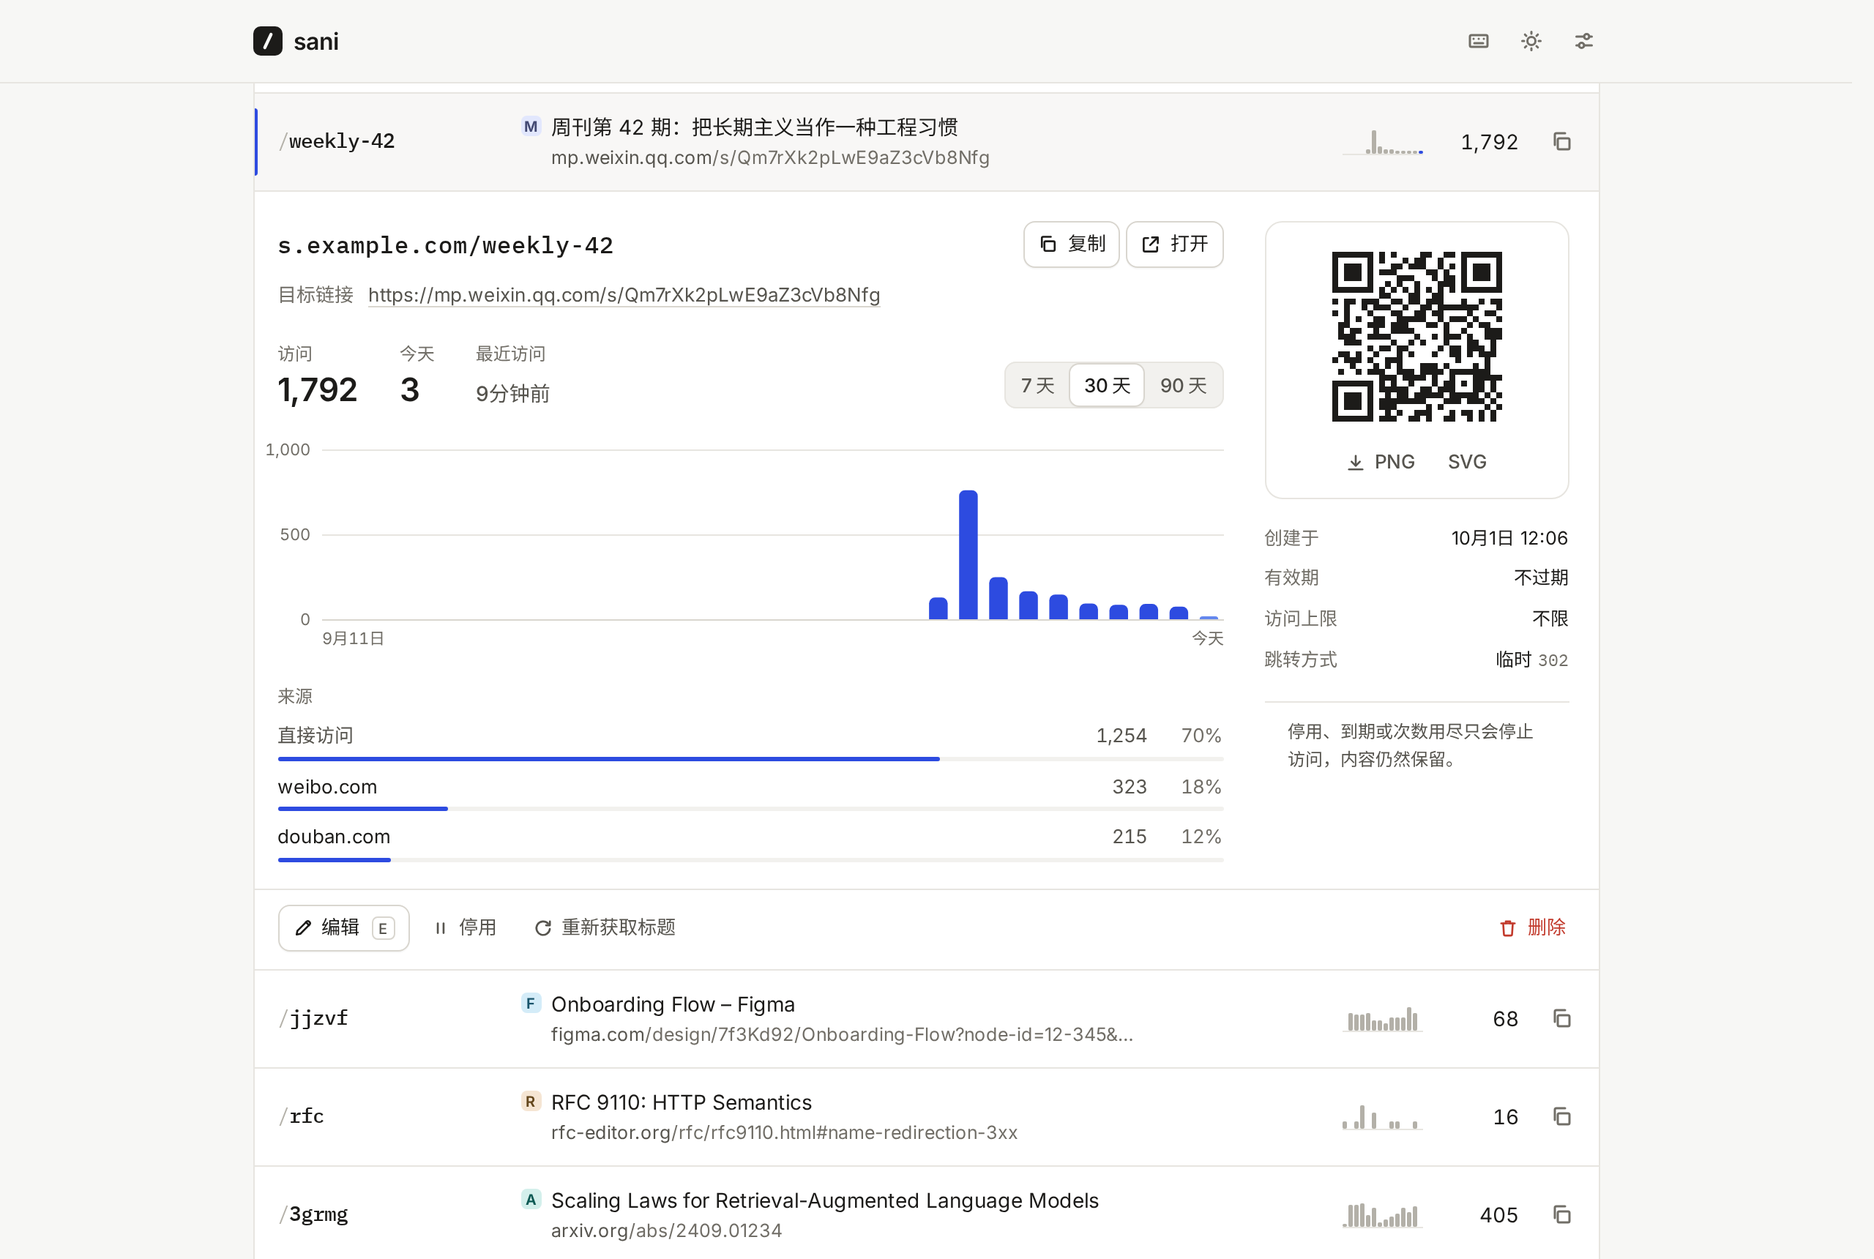
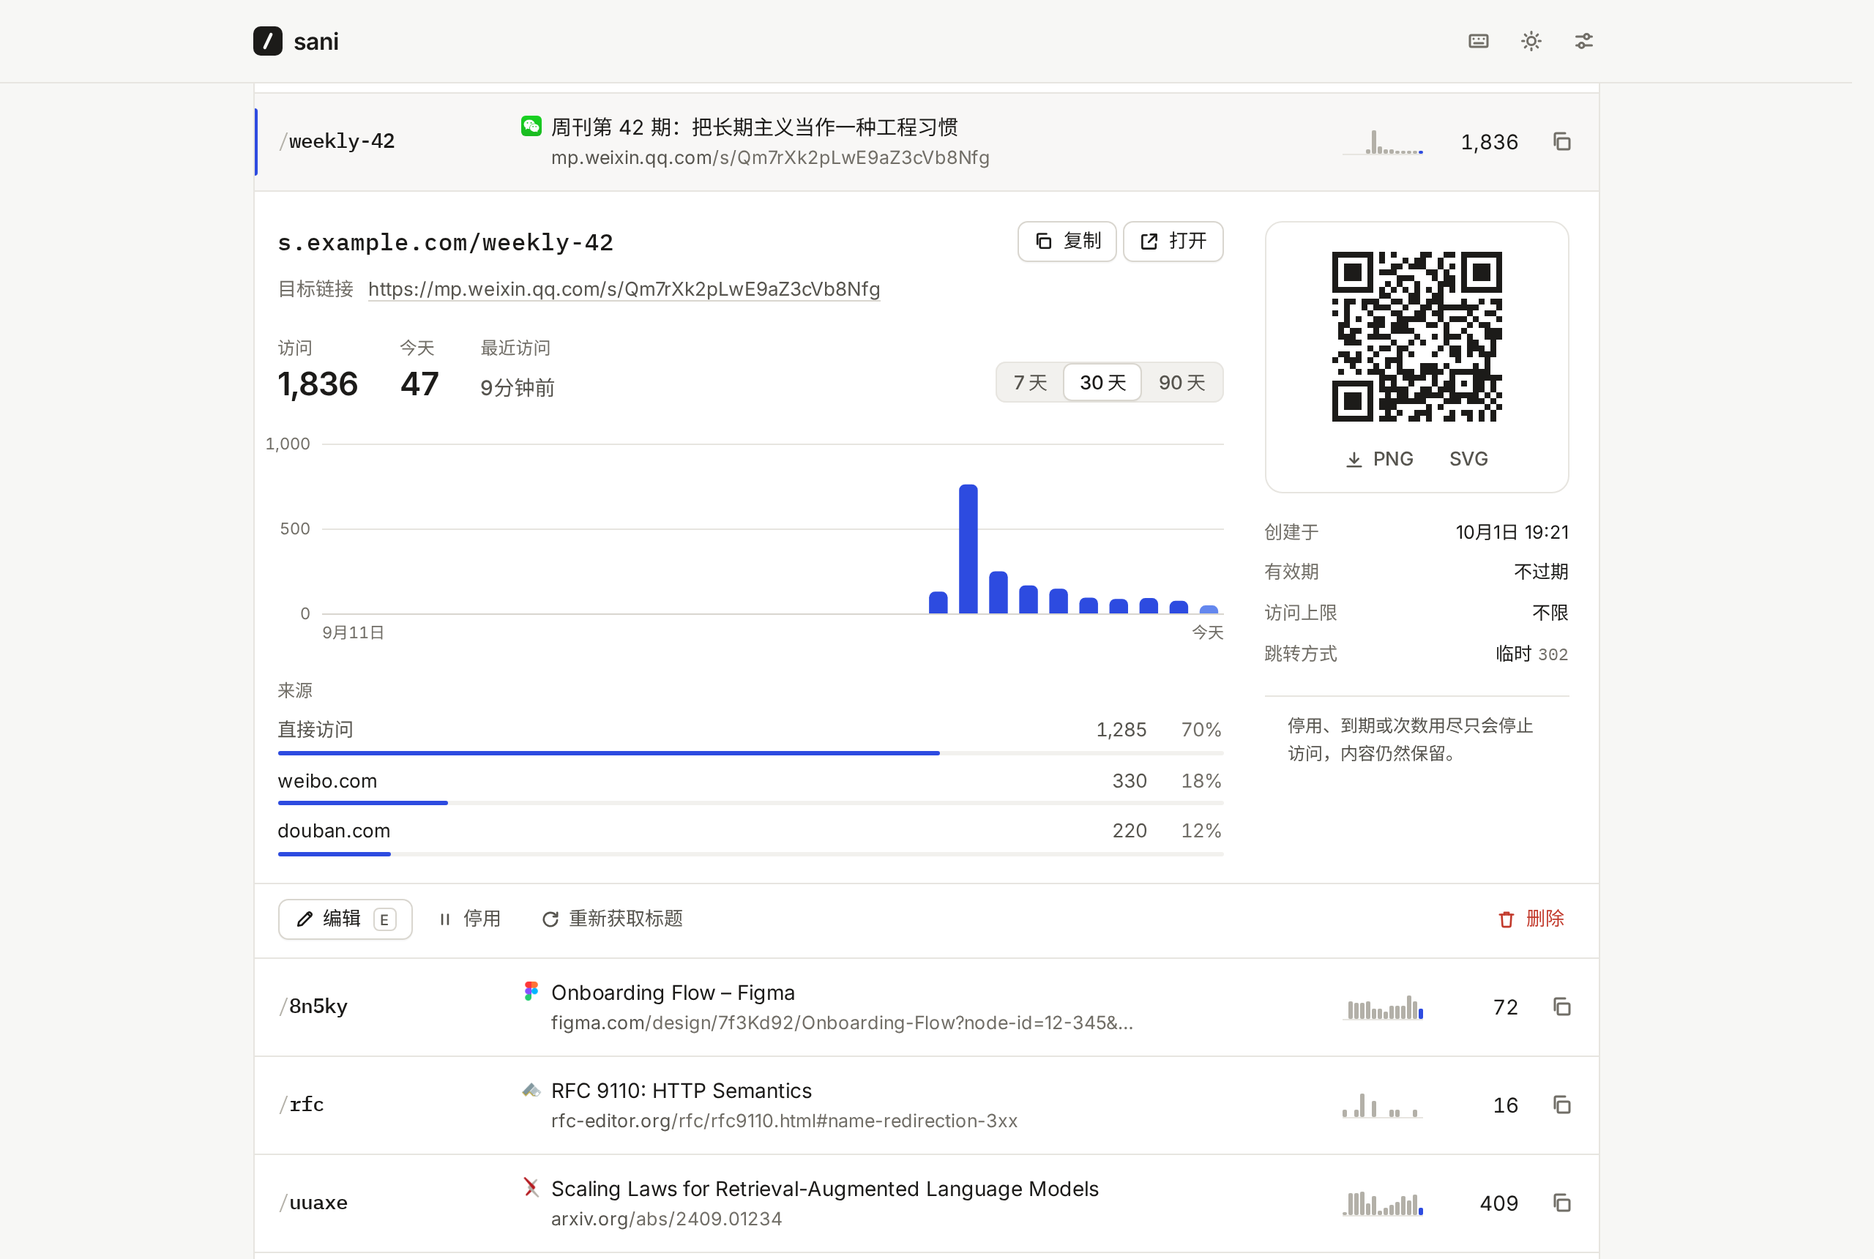
release: prepare v0.9.5 documentation and English UI screenshots

diff --git a/docs/.vitepress/theme/components/Screenshot.vue b/docs/.vitepress/theme/components/Screenshot.vue
@@ -1,5 +1,5 @@
 <script setup lang="ts">
-// A real screenshot of the admin app in the reader's language and theme.
+// A real screenshot of the admin app, localized unless a language is specified.
 // Both theme variants are lazy images, so the hidden one is never fetched.
 // Clicking opens it full size in a native <dialog>.
 import { withBase } from 'vitepress';
@@ -12,6 +12,7 @@ type Scene = 'dashboard' | 'detail' | 'mobile' | 'setup';
 const props = defineProps<{
   name: Scene;
   alt: string;
+  language?: 'zh' | 'en';
   /** The scene to show on narrow screens, where this one would be too small to read. */
   narrow?: Scene;
   /** Near the top of the page: fetch it before other images. */
@@ -24,7 +25,7 @@ const NARROW = '(max-width: 640px)';
 
 const { lang, pick } = useLang();
 const src = (theme: 'light' | 'dark', scene: Scene = props.name) => {
-  const name = `${scene}-${theme}-${lang.value}.png`;
+  const name = `${scene}-${theme}-${props.language ?? lang.value}.png`;
   return withBase(`/screenshots/${name}?v=${revisions[name]}`);
 };
 const size = computed(() => sizes[props.name]);

diff --git a/web/src/components/SlugField.svelte b/web/src/components/SlugField.svelte
@@ -83,7 +83,7 @@
   // characters take two columns, and the stylesheet caps it at 32ch.
   const width = $derived.by(() => {
     if (variant !== 'inline') return undefined;
-    const cols = [...value].reduce((n, ch) => n + (/[ᄀ-⺀-꓏가-힣豈-﫿＀-｠]/.test(ch) ? 2 : 1), 0);
+    const cols = [...(value || placeholder)].reduce((n, ch) => n + (/[ᄀ-⺀-꓏가-힣豈-﫿＀-｠]/.test(ch) ? 2 : 1), 0);
     return `${Math.max(11, cols + 1)}ch`;
   });
 </script>

diff --git a/docs/.vitepress/theme/components/HomePage.vue b/docs/.vitepress/theme/components/HomePage.vue
@@ -143,6 +143,7 @@ async function copy(i: number) {
       <Screenshot
         class="shot"
         name="dashboard"
+        language="en"
         narrow="mobile"
         priority
         :alt="pick('Sani 的管理界面：顶部是缩短链接的输入框和点击总数，下面是短链接列表。', 'The Sani dashboard: the box for new links and the click totals at the top, the list of short links below.')"

diff --git a/web/src/lib/i18n.svelte.ts b/web/src/lib/i18n.svelte.ts
@@ -747,7 +747,7 @@ const en: Record<Key, string> & Record<string, string> = {
   "composer.placeholder": "Enter or paste a URL",
   'composer.submit': 'Shorten',
   'composer.slug': 'Slug',
-  "composer.slugAuto": "Leave blank to generate",
+  "composer.slugAuto": "Auto-generated",
   'composer.expiry': 'Expires',
   'composer.more': 'More options',
   'composer.less': 'Fewer options',

diff --git a/docs/en/project/development.md b/docs/en/project/development.md
@@ -121,19 +121,19 @@ To release a new version:
 
 Push to Forgejo: `origin` must point to `ssh://git@ssh.via.moe/dejavu/sani.git`. Forgejo automatically mirrors pushes to GitHub, triggering application CI and release builds. `.woodpecker/docs.yml` deploys the documentation to `https://sani.zsh.moe` on Forgejo `master` pushes; pushing only to GitHub or only pushing a tag does not trigger documentation deployment.
 
-1. Turn the “Unreleased” section of both changelogs into a heading such as `## v0.9.4`, followed by the date. Update the full version tag in Compose, bilingual download examples and image verification examples.
-2. Run `make check test e2e smoke docs VERSION=v0.9.4` and `bash scripts/test-release-notes.sh`; confirm `scripts/release-notes.sh v0.9.4` generates the notes.
+1. Turn the “Unreleased” section of both changelogs into a heading such as `## v0.9.5`, followed by the date. Update the full version tag in Compose, bilingual download examples and image verification examples.
+2. Run `make check test e2e smoke docs VERSION=v0.9.5` and `bash scripts/test-release-notes.sh`; confirm `scripts/release-notes.sh v0.9.5` generates the notes.
 3. Commit, verify the Forgejo address with `git remote get-url origin`, then run `git push origin master`. Confirm GitHub mirrors the same commit, wait for that commit's CI and CodeQL to pass, and check Woodpecker documentation deployment.
 4. Create an annotated tag on the verified commit and push it to the same Forgejo remote:
 
    ```sh
-   git tag -a v0.9.4 -m "Sani v0.9.4"
-   git push origin refs/tags/v0.9.4
+   git tag -a v0.9.5 -m "Sani v0.9.5"
+   git push origin refs/tags/v0.9.5
    ```
 
 5. Wait for the GitHub Release to succeed and compare tag objects and target commits on Forgejo and GitHub. Verify every archive's SHA-256 and provenance, the multi-platform image and runtime version, and the live documentation's version and content in both languages. Never move, recreate or force-push a published tag; synchronize a missing tag by pushing its original object.
 
-The release workflow first makes sure the English changelog has an entry for the version, and stops if it doesn’t. It then runs the checks and tests once more, builds the archives and `SHA256SUMS`, pushes the multi-platform image with an SBOM, records build provenance for both, and creates the GitHub release with notes taken from the changelog. A tag like `v0.9.4-rc.1` is marked as a pre-release. Images always use full version tags; no `latest` or floating tags are published.
+The release workflow first makes sure the English changelog has an entry for the version, and stops if it doesn’t. It then runs the checks and tests once more, builds the archives and `SHA256SUMS`, pushes the multi-platform image with an SBOM, records build provenance for both, and creates the GitHub release with notes taken from the changelog. A tag like `v0.9.5-rc.1` is marked as a pre-release. Images always use full version tags; no `latest` or floating tags are published.
 
 Locally, `make web dist VERSION=v0.2.0` produces the same archives as the release. Building one commit twice gives byte-for-byte identical files.
 

diff --git a/docs/project/development.md b/docs/project/development.md
@@ -121,19 +121,19 @@ cd web && SANI_URL=http://127.0.0.1:18080 SANI_FRESH_URL=http://127.0.0.1:8080 n
 
 推送入口是 Forgejo：`origin` 应指向 `ssh://git@ssh.via.moe/dejavu/sani.git`。Forgejo 收到推送后自动镜像到 GitHub，触发应用 CI 与发布构建。文档站由 `.woodpecker/docs.yml` 监听 Forgejo 的 `master` 推送并部署到 `https://sani.zsh.moe`；只推 GitHub 或只推标签不会触发这条文档部署流程。
 
-1. 把两份更新日志里的“未发布”一节改成新版本，标题是 `## v0.9.4` 这样的格式，并在下一行写上日期；同步 Compose、双语下载示例与镜像校验示例的完整版本标签。
-2. 运行 `make check test e2e smoke docs VERSION=v0.9.4` 和 `bash scripts/test-release-notes.sh`，确认 `scripts/release-notes.sh v0.9.4` 能生成说明。
+1. 把两份更新日志里的“未发布”一节改成新版本，标题是 `## v0.9.5` 这样的格式，并在下一行写上日期；同步 Compose、双语下载示例与镜像校验示例的完整版本标签。
+2. 运行 `make check test e2e smoke docs VERSION=v0.9.5` 和 `bash scripts/test-release-notes.sh`，确认 `scripts/release-notes.sh v0.9.5` 能生成说明。
 3. 提交后先用 `git remote get-url origin` 核对 Forgejo 地址，再 `git push origin master`。确认镜像到 GitHub 的提交一致，等待该提交的 CI 与 CodeQL 通过，并检查 Woodpecker 文档部署。
 4. 在已通过检查的提交上创建附注标签，推送到同一个 Forgejo 远程：
 
    ```sh
-   git tag -a v0.9.4 -m "Sani v0.9.4"
-   git push origin refs/tags/v0.9.4
+   git tag -a v0.9.5 -m "Sani v0.9.5"
+   git push origin refs/tags/v0.9.5
    ```
 
 5. 等待 GitHub Release 成功，核对 Forgejo 与 GitHub 的标签对象及目标提交一致；验证所有压缩包的 SHA-256 与来源证明、多平台镜像和实际运行版本，以及线上中英文文档的版本和内容。已发布标签不得移动、重建或强推；补同步缺失标签时推送原有对象。
 
-发布流程会先确认英文更新日志里有这个版本的条目（没有就停下），再运行一遍检查和测试，然后构建各平台的压缩包和 `SHA256SUMS`、推送多平台镜像（附 SBOM），为两者生成构建来源证明，最后创建 GitHub Release，说明取自更新日志。`v0.9.4-rc.1` 这样的标签会标记为预发布。镜像始终使用完整版本标签，不发布 `latest` 或浮动标签。
+发布流程会先确认英文更新日志里有这个版本的条目（没有就停下），再运行一遍检查和测试，然后构建各平台的压缩包和 `SHA256SUMS`、推送多平台镜像（附 SBOM），为两者生成构建来源证明，最后创建 GitHub Release，说明取自更新日志。`v0.9.5-rc.1` 这样的标签会标记为预发布。镜像始终使用完整版本标签，不发布 `latest` 或浮动标签。
 
 在本地可以用 `make web dist VERSION=v0.2.0` 得到和发布时相同的压缩包。同一个提交构建两次，结果逐字节相同。
 

diff --git a/docs/en/project/versioning.md b/docs/en/project/versioning.md
@@ -4,13 +4,19 @@
 
 ## Version numbers {#semver}
 
-Sani follows [semantic versioning](https://semver.org). A version looks like `major.minor.patch`:
+Sani uses [semantic versioning](https://semver.org), with the one-time v0.9.5 exception documented below. A version looks like `major.minor.patch`:
 
 - **Patch releases** (0.1.0 → 0.1.1) only fix things; still back up and read the changelog before upgrading.
 - **Minor releases** (1.1 → 1.2) add things without breaking what exists.
 - **Major releases** (1.x → 2.0) are the only ones with breaking changes, and the [changelog](./changelog) says how to upgrade.
 
 **Before 1.0**, a minor release may also break things, as from 0.1 to 0.2. Every such change is listed under “Breaking changes” in the changelog, with how to upgrade. From 1.0 on, the promises below hold for the whole major version.
+
+### One-time v0.9.5 exception {#v095-exception}
+
+**v0.9.5 includes breaking API changes and is not an ordinary compatible patch.** During early development before 1.0, this release makes a one-time exception to the patch rule above: old management routes are removed, the admin app uses `/api/admin/v1`, the resource API uses `/api/v1`, and the database moves to schema 6. Update automation scripts. Existing public short links, text shares, file downloads, credentials, tokens and resource IDs are retained.
+
+Export JSON in the old admin app, stop cleanly and back up the database, files and configuration. Run preflight before the in-place migration; rollback requires the complete pre-upgrade snapshot and old version. See the [v0.9.5 changelog](./changelog#v0-9-5) and [upgrade steps](../guide/operations#upgrade). This exception does not relax compatibility requirements for later patches.
 
 ## What stays the same {#stable}
 
@@ -69,6 +75,6 @@ These gates precede the formal compatibility promise; Sani is still in 0.x:
 - Exercise incremental database upgrades, preserving URLs, texts, files, statistics and credentials. Roll back failed migrations, reject newer schemas in older binaries, and rehearse a complete restore.
 - Complete tests on Linux, Windows and macOS, build every release platform, and pass E2E, accessibility and dependency checks. Release decisions use remote CI for the exact commit.
 - Record reproducible capacity measurements for latency, memory, SQLite waits and count consistency. Those measurements are not an SLA.
-- List changes to documented behavior, such as resumed-download counting, under “Breaking changes” with migration steps. During 0.x, ship them in a minor release instead of silently including them in a patch.
+- List incompatible changes to documented behavior under “Breaking changes” with migration steps. During 0.x, ship them in a minor release; the explicitly documented one-time v0.9.5 exception is not a precedent for breaking later patches.
 
 Database tables remain internal implementation details after 1.0.

diff --git a/docs/en/guide/deploy.md b/docs/en/guide/deploy.md
@@ -28,10 +28,10 @@ A few things worth knowing about `compose.yaml`:
 
 | Tag | Points at |
 |---|---|
-| `v0.9.4` | The exact version matching Git tag and GitHub Release `v0.9.4` |
-| `v0.9.4-rc.1` | The matching prerelease Git tag, available only once published |
+| `v0.9.5` | The exact version matching Git tag and GitHub Release `v0.9.5` |
+| `v0.9.5-rc.1` | The matching prerelease Git tag, available only once published |
 
-From v0.7.0, image tags match Git tags and GitHub Releases exactly, including the `v` prefix. Releases no longer publish `latest`, major or minor floating tags. The repository template and configuration builder pin `ghcr.io/dejavumoe/sani:v0.9.4`. Check that the version appears in [Releases](https://github.com/DejavuMoe/sani/releases) before deploying; a release preparation branch may refer to a version that is not published yet.
+From v0.7.0, image tags match Git tags and GitHub Releases exactly, including the `v` prefix. Releases no longer publish `latest`, major or minor floating tags. The repository template and configuration builder pin `ghcr.io/dejavumoe/sani:v0.9.5`. Check that the version appears in [Releases](https://github.com/DejavuMoe/sani/releases) before deploying; a release preparation branch may refer to a version that is not published yet.
 
 To upgrade, [back up](./operations#backup), change `image:` in `compose.yaml` to the target version's full tag, then run:
 
@@ -104,7 +104,7 @@ The binary is statically linked and needs no libraries on the server. On macOS, 
 ::: code-group
 
 ```sh [Download]
-base=https://github.com/DejavuMoe/sani/releases/download/v0.9.4
+base=https://github.com/DejavuMoe/sani/releases/download/v0.9.5
 curl -fsSLO "$base/sani-linux-amd64.tar.gz" -O "$base/SHA256SUMS"
 sha256sum --ignore-missing -c SHA256SUMS
 tar -xzf sani-linux-amd64.tar.gz sani
@@ -119,7 +119,7 @@ ssh server sudo install -m 755 /tmp/sani /usr/local/bin/sani
 
 :::
 
-The download path pins `v0.9.4`. When upgrading, replace it with the published target version's tag.
+The download path pins `v0.9.5`. When upgrading, replace it with the published target version's tag.
 
 ### Checking where a build came from {#verify}
 
@@ -127,7 +127,7 @@ Release files and images are built by GitHub Actions from the tagged commit, wit
 
 ```sh
 gh attestation verify sani-linux-amd64.tar.gz -R DejavuMoe/sani
-gh attestation verify oci://ghcr.io/dejavumoe/sani:v0.9.4 -R DejavuMoe/sani
+gh attestation verify oci://ghcr.io/dejavumoe/sani:v0.9.5 -R DejavuMoe/sani
 ```
 
 Save the generated `sani.service` in `/etc/systemd/system/` and enable it:

diff --git a/docs/guide/deploy.md b/docs/guide/deploy.md
@@ -28,10 +28,10 @@ docker compose up -d
 
 | 标签 | 指向 |
 |---|---|
-| `v0.9.4` | 对应 Git tag 和 GitHub Release `v0.9.4` 的具体版本 |
-| `v0.9.4-rc.1` | 对应同名 Git tag 的预发布版（仅在发布该版本后可用） |
+| `v0.9.5` | 对应 Git tag 和 GitHub Release `v0.9.5` 的具体版本 |
+| `v0.9.5-rc.1` | 对应同名 Git tag 的预发布版（仅在发布该版本后可用） |
 
-从 v0.7.0 起，镜像标签与 Git tag、GitHub Release 完全一致，保留 `v` 前缀；不再发布 `latest`、主版本或次版本浮动标签。仓库模板与配置生成器固定使用 `ghcr.io/dejavumoe/sani:v0.9.4`。部署前确认该版本已出现在 [Releases](https://github.com/DejavuMoe/sani/releases) 中；发布准备分支中的版本可能尚未发布。
+从 v0.7.0 起，镜像标签与 Git tag、GitHub Release 完全一致，保留 `v` 前缀；不再发布 `latest`、主版本或次版本浮动标签。仓库模板与配置生成器固定使用 `ghcr.io/dejavumoe/sani:v0.9.5`。部署前确认该版本已出现在 [Releases](https://github.com/DejavuMoe/sani/releases) 中；发布准备分支中的版本可能尚未发布。
 
 升级时先[备份](./operations#backup)，再手动将 `compose.yaml` 的 `image:` 改为目标版本的完整标签，随后执行：
 
@@ -104,7 +104,7 @@ docker exec sani /sani healthcheck
 ::: code-group
 
 ```sh [下载]
-base=https://github.com/DejavuMoe/sani/releases/download/v0.9.4
+base=https://github.com/DejavuMoe/sani/releases/download/v0.9.5
 curl -fsSLO "$base/sani-linux-amd64.tar.gz" -O "$base/SHA256SUMS"
 sha256sum --ignore-missing -c SHA256SUMS
 tar -xzf sani-linux-amd64.tar.gz sani
@@ -119,7 +119,7 @@ ssh server sudo install -m 755 /tmp/sani /usr/local/bin/sani
 
 :::
 
-下载路径固定到 `v0.9.4`；升级时将路径中的标签改为已发布的目标版本。
+下载路径固定到 `v0.9.5`；升级时将路径中的标签改为已发布的目标版本。
 
 ### 校验来源与签名 {#verify}
 
@@ -127,7 +127,7 @@ ssh server sudo install -m 755 /tmp/sani /usr/local/bin/sani
 
 ```sh
 gh attestation verify sani-linux-amd64.tar.gz -R DejavuMoe/sani
-gh attestation verify oci://ghcr.io/dejavumoe/sani:v0.9.4 -R DejavuMoe/sani
+gh attestation verify oci://ghcr.io/dejavumoe/sani:v0.9.5 -R DejavuMoe/sani
 ```
 
 将生成的 `sani.service` 写入 `/etc/systemd/system/` 并启动：

diff --git a/docs/en/project/progress.md b/docs/en/project/progress.md
@@ -41,6 +41,14 @@ Run the following checks for each release candidate commit. A previous release's
 
 Before accepting a target deployment, also verify HTTPS, proxy trust, both domains, volume permissions, backup recovery and monitoring as described in [Operations](../guide/operations). `/healthz` reports liveness, not database writability or complete application health. The compatibility promises for 1.0 require the separate [versioning gates](./versioning#before-1); passing local checks does not automatically make a 1.0 release.
 
+## v0.9.5 compact interface and API upgrade acceptance {#r10-acceptance}
+
+Approved R10 supersedes R9 control sizing. Desktop buttons, fields and menu items use 28, 32 and 36px baselines. Narrow or touch screens use 36px buttons, 40px fields and 44px menu items, with extended hit areas. Numeric/unit inputs share `UnitInput`, regular weight and start alignment, with a 36px visible input on narrow screens. Long labels can grow, busy buttons retain width, segmented controls support Home/End, and Svelte transitions respect reduced motion.
+
+Interaction and sizing regressions: `web/e2e/r7.spec.ts` and `web/e2e/metadata.spec.ts`. Actual interface, content and verification records: `designs/sani/implementation-r10/`. Documentation and README landing images use the latest English interface; guides retain both languages and themes.
+
+API and migration entry points: `make contract`, `OLD_BIN=/absolute/path/to/old-sani make upgrade-drill` and `scripts/test-docker-storage.sh`. Local checks used the verified published v0.9.4 binary for upgrade and full-snapshot rollback. WSL Docker checks cover non-root storage, read-only databases and real disk exhaustion. Docker Desktop creates missing bind directories; native Linux CI covers their rejection. Physical devices, Firefox/WebKit and production deployments require separate acceptance.
+
 ## v0.9.4 management and visual consistency acceptance {#r9-acceptance}
 
 Approved R7 and R9 are implemented. Tag search and scope filters share an outer height; toolbars, fields and menus use shared sizes, with 44px controls on narrow or touch screens. Categories, share URLs, visit statistics and About typography are consistent. R9 sizing supersedes the R6 narrow-screen compact rule.
